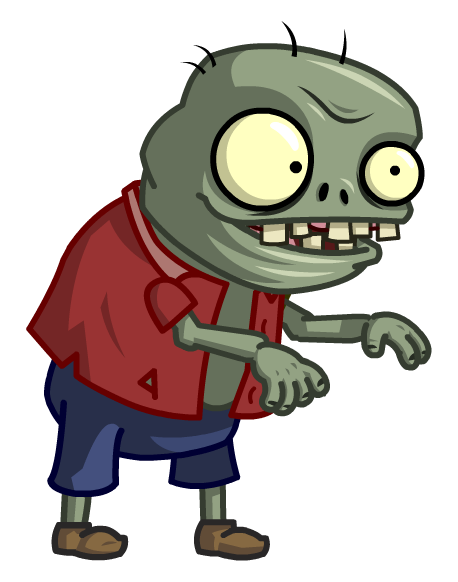
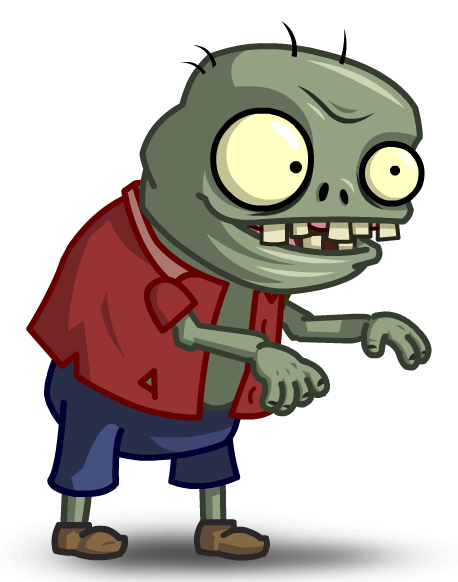
Added Play Again and View High Score buttons with game over pop-up - Added game over pop with overlay - Added blob shadow for all zombies and player - Implemented Play Again

Changed region(s): [[0.0917, 0.8969, 0.8865, 1.0]]

diff --git a/assets/js/game.js b/assets/js/game.js
@@ -5,10 +5,10 @@ const MAX_FIRST_NUM = 15
 const MAX_SECOND_NUM = 10
 const MAX_GAME_TIME = 60
 
-let screenEnd = visualViewport.width
-let currentLevel = 1
-let correctRow = -1
-let answer = 0
+let screenEnd
+let currentLevel
+let correctRow
+let answer
 let remainingTime = MAX_GAME_TIME
 
 const levelContainer = document.querySelector("#level-container")
@@ -17,7 +17,7 @@ const zombieElements = document.querySelectorAll(".zombie")
 
 let remainingTimeText = document.querySelector("#remaining-time")
 let currentLevelText = document.querySelector("#hud-items > p")
-let resultUI = document.querySelector(".result > h1")
+let resultUI = document.querySelector("#result")
 let timerInterval
 
 let player = null
@@ -210,9 +210,9 @@ const gameOver = (isWon) => {
     }
 
     if (isWon) {
-        resultUI.innerText = "You Won"
+        document.getElementById("game-over-text").innerText = "YOU WON"
     } else {
-        resultUI.innerText = "Game Over"
+        document.getElementById("game-over-text").innerText = "YOU LOSE"
     }
 
     resultUI.classList.remove("hidden")
@@ -220,12 +220,24 @@ const gameOver = (isWon) => {
     document.querySelector("body").removeEventListener("keydown", onKeyDown)
 }
 
+const init = () => {
+    document.querySelector("body").addEventListener("keydown", onKeyDown)
+    screenEnd = visualViewport.width
+    currentLevel = 1
+    correctRow = -1
+    answer = 0
+    remainingTime = MAX_GAME_TIME
+    remainingTimeText.innerText = remainingTime
+    clearInterval(timerInterval)
+    timerInterval = setInterval(updateRemainingTime, 1000)
+}
+
 const main = () => {
     questionGenerator = new QuestionGenerator(MAX_FIRST_NUM, MAX_SECOND_NUM)
     player = new Player("Dummy", playerElements)
+    init()
     createZombies()
     setupLevel()
-    timerInterval = setInterval(updateRemainingTime, 1000)
 }
 
 const onKeyDown = (e) => {
@@ -242,6 +254,13 @@ const onWindowResize = () => {
     screenEnd = visualViewport.width
 }
 
+const onPlayAgain = () => {
+    console.log("Play Again")
+    resultUI.classList.add("hidden")
+    init()
+    setupLevel()
+}
+
 window.addEventListener("load", main)
 window.addEventListener('resize', onWindowResize);
-document.querySelector("body").addEventListener("keydown", onKeyDown)
+document.getElementById("play-again-btn").addEventListener("click", onPlayAgain)

diff --git a/assets/css/game.css b/assets/css/game.css
@@ -12,6 +12,20 @@ p {
     border-radius: 5px;
 }
 
+button {
+    cursor: pointer;
+    color: rgb(102, 83, 147);
+    border: 1px solid rgb(102, 83, 147);
+    padding: 5px;
+    border-radius: 5px;
+}
+
+button:hover {
+    background-color: rgb(102, 83, 147);
+    color: #ffffff;
+    border: 1px solid #ffffff;
+}
+
 main {
     background-color: #000000;
 }
@@ -29,12 +43,23 @@ main {
     overflow: hidden;
 }
 
-.result {
+#result {
     z-index: 1;
-    width: 100%;
-    height: auto;
+    position: fixed;
+    width: 100vw;
+    height: 100vh;
     color: yellow;
     text-align: center;
+    background-color: rgba(0,0,0,0.7);
+}
+
+.pop-up {
+    background-color: rgba(255, 255, 255, 0.7);
+    width: 50%;
+    padding: 15px;
+    transform: translateX(50%);
+    border: 1px solid rgb(102, 83, 147);
+    border-radius: 5px;
 }
 
 #level-container {

diff --git a/game.html b/game.html
@@ -13,8 +13,12 @@
 </head>
 <body>
     <main>
-        <div class="result align-middle">
-            <h1 class="hidden">Game Over</h1>
+        <div id="result" class="overlay hidden">
+            <div class="pop-up align-middle">
+                <h1 id="game-over-text">Game Over</h1>
+                <button id="play-again-btn">Play Again</button>
+                <button id="high-score-btn">View High Score</button>
+            </div>
         </div>
         <div id="level-container">
             <div id="hud-container">
